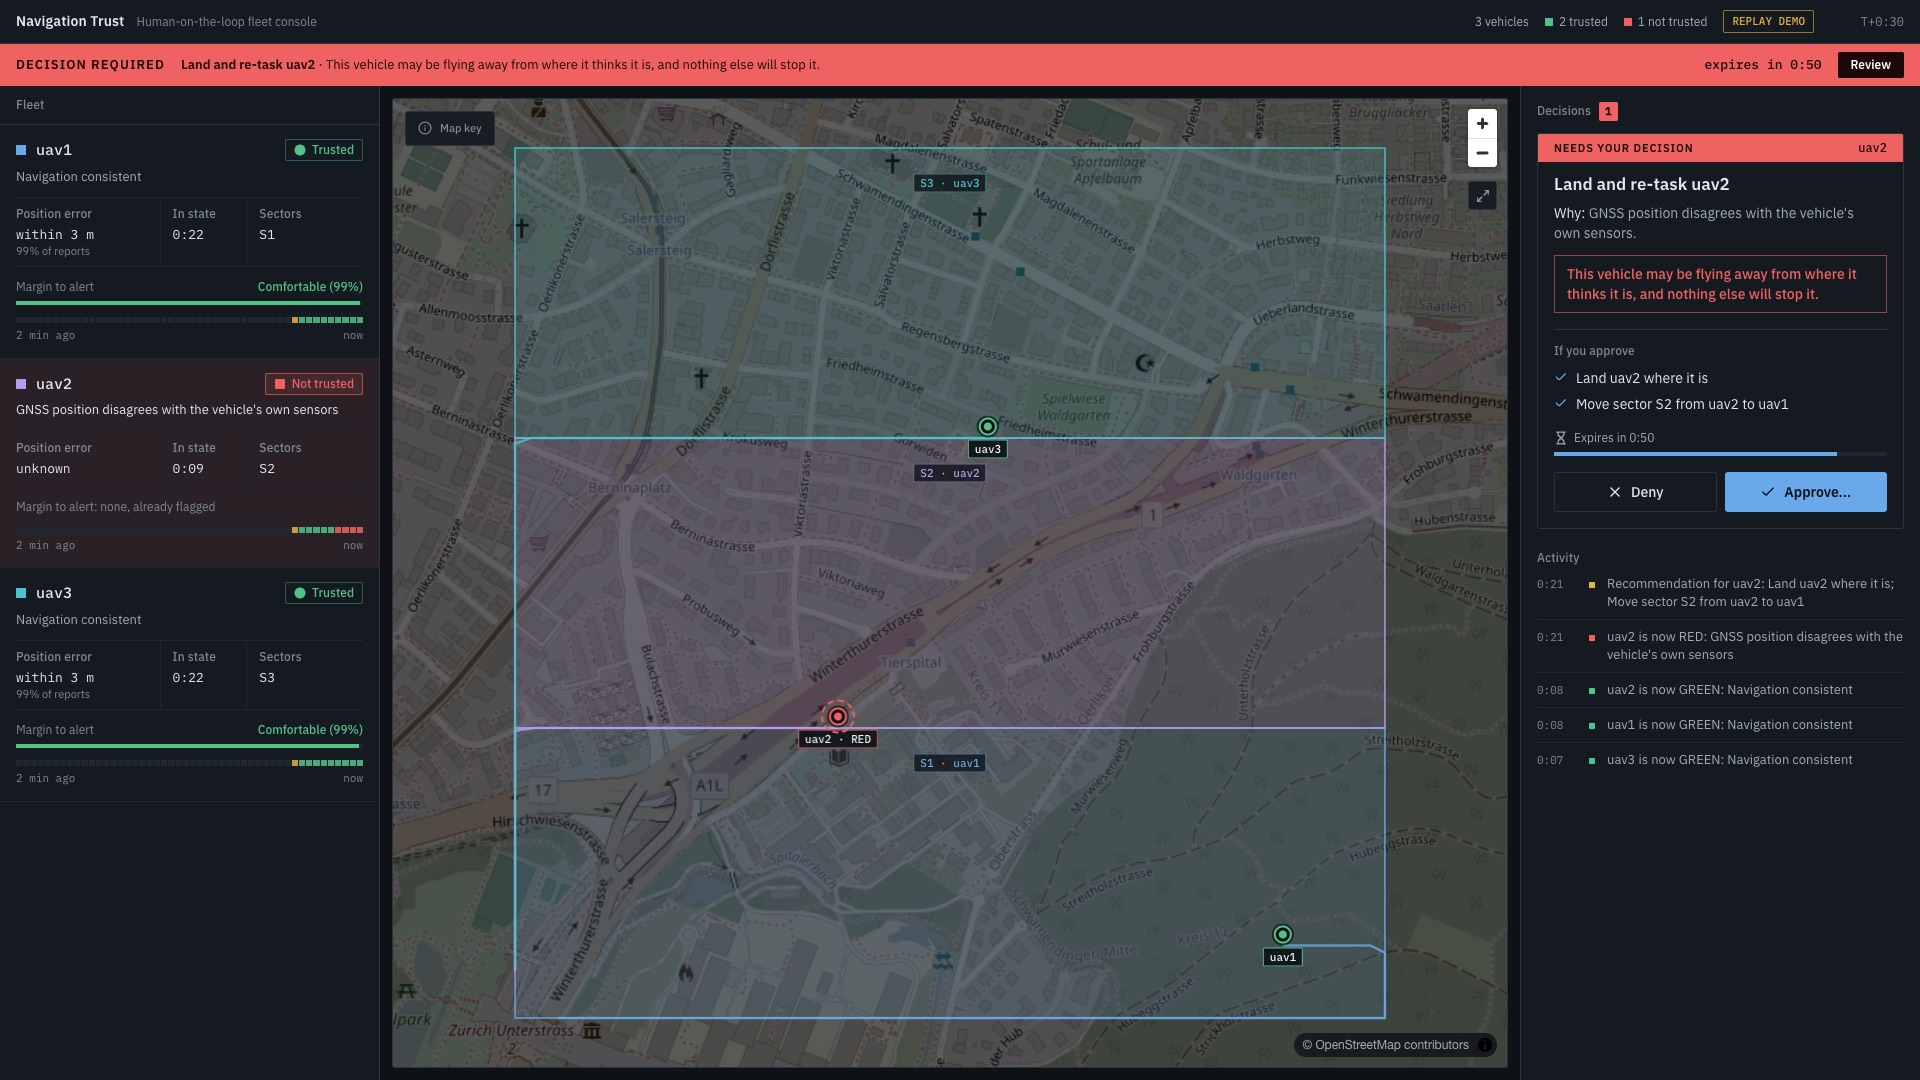
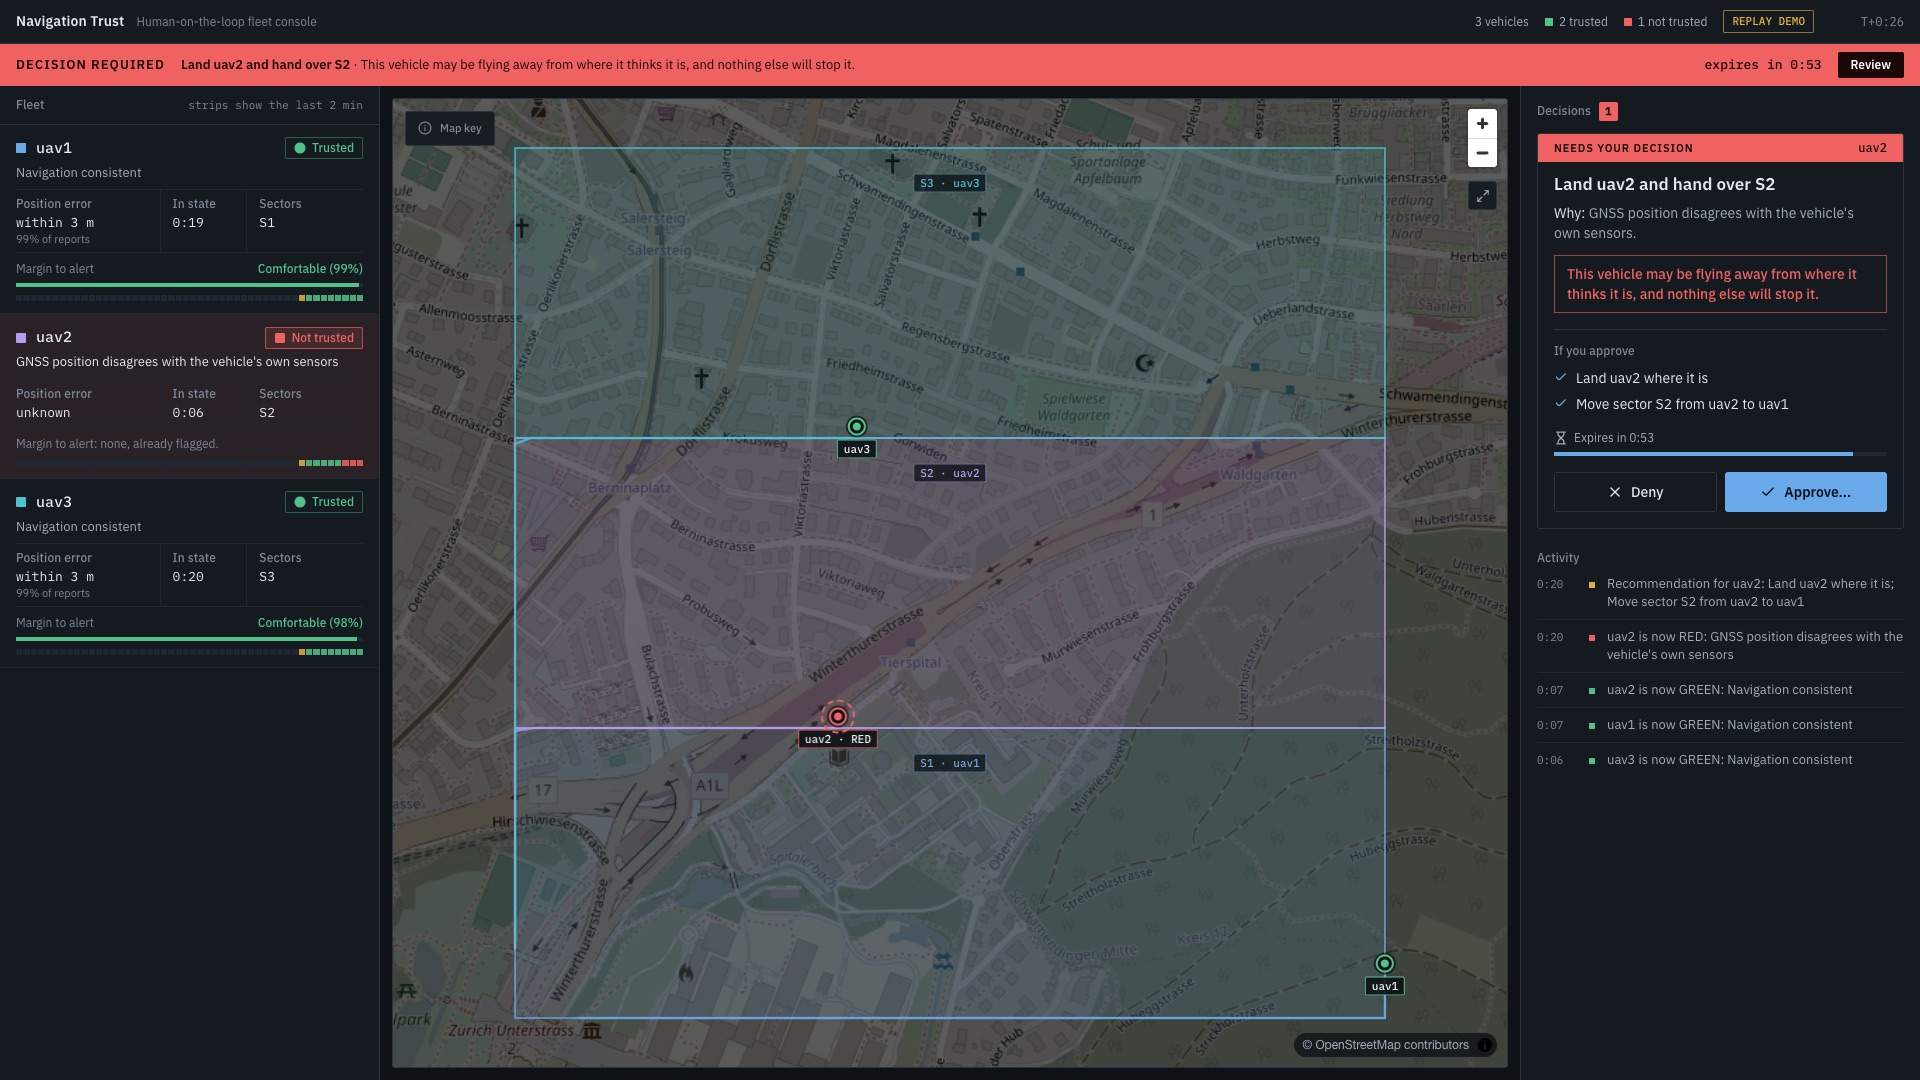
Console freeze before round 2: 189 px rows (5 vehicles fit at 1080p), AMBER says no action is expected, plain card titles ('Land uav2 and hand over S2')

diff --git a/console/src/components/VehicleRow.tsx b/console/src/components/VehicleRow.tsx
@@ -42,7 +42,7 @@ export function VehicleRow({
       type="button"
       onClick={onFocus}
       className={clsx(
-        "block w-full border-b border-line-soft px-4 py-3.5 text-left hover:bg-panel-2",
+        "block w-full border-b border-line-soft px-4 py-3 text-left hover:bg-panel-2",
         "focus-visible:outline-2 focus-visible:-outline-offset-2 focus-visible:outline-accent",
         trust.state === "RED" && "bg-bad/10 hover:bg-bad/14",
       )}
@@ -60,11 +60,11 @@ export function VehicleRow({
         <StateChip state={trust.state} />
       </div>
 
-      <p className={clsx("mt-1.5 text-[13px] leading-snug", trust.state === "GREEN" ? "text-muted" : "text-text")}>
+      <p className={clsx("mt-1 text-[13px] leading-snug", trust.state === "GREEN" ? "text-muted" : "text-text")}>
         {reasonText(trust.reason)}
       </p>
 
-      <dl className="mt-3 grid grid-cols-[1.25fr_0.75fr_1fr] divide-x divide-line-soft border-y border-line-soft text-xs">
+      <dl className="mt-2 grid grid-cols-[1.25fr_0.75fr_1fr] divide-x divide-line-soft border-y border-line-soft text-xs">
         <Metric
           label="Position error"
           value={formatBound(trust.horizontal_bound_m)}
@@ -80,11 +80,11 @@ export function VehicleRow({
         />
       </dl>
 
-      <div className="mt-3">
+      <div className="mt-2">
         <Headroom trust={trust} />
       </div>
 
-      <div className="mt-3">
+      <div className="mt-2">
         <TrustStrip history={history} now={now} />
       </div>
     </button>
@@ -105,9 +105,9 @@ function Metric({
   first?: boolean;
 }) {
   return (
-    <div className={clsx("py-2", first ? "pr-3" : "px-3")} title={title}>
+    <div className={clsx("py-1.5", first ? "pr-3" : "px-3")} title={title}>
       <dt className="label">{label}</dt>
-      <dd className="mt-1 truncate font-mono text-[13px] text-text">{value}</dd>
+      <dd className="mt-0.5 truncate font-mono text-[13px] text-text">{value}</dd>
       {note && <dd className="truncate text-[11px] text-faint">{note}</dd>}
     </div>
   );
@@ -122,7 +122,12 @@ const HEADROOM_STYLE = {
 /** How far a GREEN vehicle is from being flagged. Outside GREEN there is nothing left to measure. */
 function Headroom({ trust }: { trust: NavTrust }) {
   if (trust.state !== "GREEN") {
-    return <p className="text-xs text-faint">Margin to alert: none, already flagged</p>;
+    return (
+      <p className="text-xs text-faint">
+        Margin to alert: none, already flagged.
+        {trust.state === "AMBER" && " No action is recommended unless it turns RED."}
+      </p>
+    );
   }
   const level = headroomLevel(trust.headroom);
   const style = HEADROOM_STYLE[level];

diff --git a/console/src/language.ts b/console/src/language.ts
@@ -66,14 +66,16 @@ export function actionsOf(rec: Recommendation): string[] {
   return out;
 }
 
+/** Plain wording for the card title, for example "Land uav2 and hand over S2". The backend and the
+ * ICD call a sector move a re-task; an operator does not need that word. */
 export function titleOf(rec: Recommendation): string {
-  const parts: string[] = [];
-  if (rec.command === "HOLD") parts.push("Hold");
-  if (rec.command === "RTL") parts.push("Return");
-  if (rec.command === "LAND") parts.push("Land");
-  if (rec.sector_moves.length > 0) parts.push("re-task");
-  const text = parts.join(" and ");
-  return `${text.charAt(0).toUpperCase()}${text.slice(1)} ${rec.vehicle_id}`;
+  const v = rec.vehicle_id;
+  const command =
+    rec.command === "HOLD" ? `Hold ${v}` : rec.command === "RTL" ? `Return ${v} to launch` : rec.command === "LAND" ? `Land ${v}` : null;
+  const sectors = [...new Set(rec.sector_moves.map((m) => m.sector_id))].join(", ");
+  if (command && sectors) return `${command} and hand over ${sectors}`;
+  if (command) return command;
+  return `Hand over ${sectors} from ${v}`;
 }
 
 export const ERROR_TEXT: Record<number, string> = {

diff --git a/console/src/components/TrustStrip.tsx b/console/src/components/TrustStrip.tsx
@@ -6,6 +6,7 @@ const WINDOW_S = 120;
 
 /** The last two minutes of a vehicle's trust state as a row of small blocks. */
 export function TrustStrip({ history, now }: { history: HistoryPoint[]; now: number | null }) {
+  // the strip is always the last two minutes; its ends are labelled once in the fleet header
   const end = now ?? history[history.length - 1]?.server_s ?? 0;
   const start = end - WINDOW_S;
   const cells: (keyof typeof TONE | null)[] = Array.from({ length: BUCKETS }, () => null);
@@ -29,10 +30,6 @@ export function TrustStrip({ history, now }: { history: HistoryPoint[]; now: num
         {filled.map((c, i) => (
           <span key={i} className="h-full flex-1" style={{ background: c ? TONE[c].hex : "#1f2832", opacity: c ? 0.85 : 1 }} />
         ))}
-      </div>
-      <div className="mt-1 flex justify-between font-mono text-[11px] text-faint">
-        <span>2 min ago</span>
-        <span>now</span>
       </div>
     </div>
   );

diff --git a/console/src/store.test.ts b/console/src/store.test.ts
@@ -113,11 +113,12 @@ describe("language", () => {
 
   it("describes exactly what approving will do", () => {
     expect(actionsOf(rec)).toEqual(["Hold uav2 in place", "Move sector S2 from uav2 to uav3"]);
-    expect(titleOf(rec)).toBe("Hold and re-task uav2");
-    expect(titleOf({ ...rec, command: null })).toBe("Re-task uav2");
+    expect(titleOf(rec)).toBe("Hold uav2 and hand over S2");
+    expect(titleOf({ ...rec, command: null })).toBe("Hand over S2 from uav2");
     expect(actionsOf({ ...rec, command: "RTL", sector_moves: [] })).toEqual(["Send uav2 back to its launch point"]);
     expect(actionsOf({ ...rec, command: "LAND", sector_moves: [] })).toEqual(["Land uav2 where it is"]);
-    expect(titleOf({ ...rec, command: "LAND" })).toBe("Land and re-task uav2");
+    expect(titleOf({ ...rec, command: "LAND" })).toBe("Land uav2 and hand over S2");
+    expect(titleOf({ ...rec, sector_moves: [] })).toBe("Hold uav2");
   });
 });
 

diff --git a/console/src/App.tsx b/console/src/App.tsx
@@ -112,7 +112,10 @@ export function App() {
       <main className="grid min-h-0 flex-1 xl:grid-cols-[380px_minmax(0,1fr)_400px]">
         {/* fleet */}
         <section className="flex min-h-0 flex-col overflow-y-auto border-r border-line bg-panel" aria-label="Fleet">
-          <h2 className="label sticky top-0 z-10 border-b border-line bg-panel px-4 py-2.5">Fleet</h2>
+          <h2 className="label sticky top-0 z-10 flex items-baseline justify-between border-b border-line bg-panel px-4 py-2.5">
+            Fleet
+            <span className="font-mono text-[11px] font-normal text-faint">strips show the last 2 min</span>
+          </h2>
           {vehicleIds.length === 0 && (
             <div className="px-4 py-5 text-sm text-muted">Waiting for vehicles to report their navigation trust...</div>
           )}

diff --git a/console/src/components/components.test.tsx b/console/src/components/components.test.tsx
@@ -141,3 +141,14 @@ describe("DecisionBanner (a waiting decision must not be missable)", () => {
     expect(onReview).toHaveBeenCalledTimes(1);
   });
 });
+
+describe("VehicleRow AMBER", () => {
+  it("says that no action is expected unless it turns RED", () => {
+    const amber = {
+      vehicle_id: "uav1", stamp_s: 1, state: "AMBER" as const, reason: "GNSS_LOSS" as const,
+      horizontal_bound_m: null, confidence: 0, headroom: 0,
+    };
+    render(<VehicleRow vehicleId="uav1" trust={amber} since={0} now={5} sectors={[]} doneSectors={[]} history={[]} calibration={null} onFocus={vi.fn()} />);
+    expect(screen.getByText(/No action is recommended unless it turns RED/)).toBeTruthy();
+  });
+});

diff --git a/docs/validation/c2-03-review.md b/docs/validation/c2-03-review.md
@@ -11,9 +11,9 @@ the recommender can make (ADR 0002 and 0003).
 
 | Trust state and reason | Recommendation | Card title | Reason shown | Extra text |
 |---|---|---|---|---|
-| RED, GNSS_LOSS | re-task only | "Re-task uav2" | GNSS signal lost or degraded | "No command is sent to uav2: its own failsafe is acting." |
-| RED, STALE | re-task only | "Re-task uav2" | No recent navigation data | "No command is sent to uav2: it has stopped reporting." |
-| RED, INCONSISTENT_INNOVATION | LAND and re-task | "Land and re-task uav2" | GNSS position disagrees with the vehicle's own sensors | "This vehicle may be flying away from where it thinks it is, and nothing else will stop it." |
+| RED, GNSS_LOSS | hand over only | "Hand over S2 from uav2" | GNSS signal lost or degraded | "No command is sent to uav2: its own failsafe is acting." |
+| RED, STALE | hand over only | "Hand over S2 from uav2" | No recent navigation data | "No command is sent to uav2: it has stopped reporting." |
+| RED, INCONSISTENT_INNOVATION | LAND and hand over | "Land uav2 and hand over S2" | GNSS position disagrees with the vehicle's own sensors | "This vehicle may be flying away from where it thinks it is, and nothing else will stop it." |
 | AMBER, any | none by design (ADR 0002) | none | shown in the fleet row | none |
 
 ## Checklist
@@ -26,17 +26,17 @@ the recommender can make (ADR 0002 and 0003).
 | 4 | Does it say what happens to the vehicle itself when no command is sent? | Not before this review. Added: the note in the table above |
 | 5 | Is the time left to decide shown, and is an expired card unusable? | Yes. Tested |
 | 6 | Is a dangerous wait called out? | Yes, for the frozen position (LAND). Not for loss or stale, where a failsafe is acting or data is gone |
-| 7 | Can the operator tell why nothing is recommended for AMBER? | Partly. The row shows the state and reason, and the margin to alert; nothing says that no action is expected |
-| 8 | Is every reason label one the system can actually produce? | No. `BIAS_DRIFT` has a label but no detector or recommendation uses it |
-| 9 | Is the vocabulary understood by someone who has never seen the console? | Not shown. "Re-task" is jargon; no participant was asked about it |
+| 7 | Can the operator tell why nothing is recommended for AMBER? | Yes, since the console freeze: the row says "No action is recommended unless it turns RED". Tested |
+| 8 | Is every reason label one the system can actually produce? | No. `BIAS_DRIFT` has a label but no detector or recommendation uses it. It is reserved in the ICD, so the label stays |
+| 9 | Is the vocabulary understood by someone who has never seen the console? | Not shown. The jargon "re-task" was replaced by "hand over" in card titles; no participant has been asked about either |
 
 ## Findings
 
 1. Fixed: a re-task-only card left the operator to guess what happens to the vehicle (4).
-2. Open: AMBER gives no sign that no action is expected (7). Not changed, to keep the console as
-   the round 2 sessions will see it.
-3. Open: `BIAS_DRIFT` is a dead label (8).
-4. Open: "re-task" as a title word (9). Round 2 should ask what participants take it to mean.
+2. Fixed: AMBER now says that no action is expected unless it turns RED (7).
+3. Kept: `BIAS_DRIFT` is reserved in the ICD; nothing produces it (8).
+4. Changed, not tested: card titles say "hand over" instead of "re-task" (9). Round 2 should ask what
+   participants take the card to mean.
 
 ## Why the status stays "partial"
 

diff --git a/docs/product/requirements.md b/docs/product/requirements.md
@@ -17,7 +17,7 @@ PX4's own GPS failure model). Nothing in it says anything about real receivers o
 | C2-01 | No vehicle command shall execute without a recorded operator approval, except PX4's own failsafes | unit tests on the gate and the audit log | met | The gate is the only path to a command, an AST test enforces that, and every outcome is audited |
 | C2-02 | On RED the system shall propose re-assignment of the vehicle's remaining sectors within 2 s | integration test | met | Measured in 6 live three-vehicle runs: 5 to 6 ms from the backend receiving the RED report to the recommendation (`eval/fleet/results.md`). The engine's report interval (2 Hz, up to 0.5 s by design) and delivery to the console are not included. For a frozen position the proposal is LAND plus re-assignment |
 | C2-03 | Every alert shall show a reason code an operator can act on | UI test, review checklist | partial | Review done (`docs/validation/c2-03-review.md`) and tested for every recommendation the recommender can make; one gap fixed. Whether an operator acts on it is not shown: round 1 participants did not act unaided; round 2 pending |
-| UX-01 | The operator can see all vehicles' trust states without scrolling at 1080p | manual check, screenshot | partial | Measured at 1920 x 1080 with 3 vehicles after the redesign: the lowest row ends at 789 of 1080 px and each row is 230 px, so 4 fit and nothing scrolls. The spec says an operator controls 3 to 5 vehicles; a fifth row would need scrolling |
+| UX-01 | The operator can see all vehicles' trust states without scrolling at 1080p | manual check, screenshot | met | Measured at 1920 x 1080 with 5 vehicles and the decision band showing: each row is 189 px and the fleet panel does not scroll. The spec says 3 to 5 vehicles |
 
 ## Success metrics (spec section 1.5)
 

diff --git a/docs/usability/facilitator-script.md b/docs/usability/facilitator-script.md
@@ -64,13 +64,13 @@ participants and then compare their times. Note that the demo compresses time fi
 `outage` the drone is AMBER for only about a second before it turns RED, so a participant may never
 see AMBER.
 
-In `both`, two cards are open at once. The list puts the most urgent first ("Land and re-task
-uav2", with the red warning), then the routine re-task, whatever order they arrived in. Watch which
+In `both`, two cards are open at once. The list puts the most urgent first ("Land uav2 and hand
+over S2", with the red warning), then the routine hand-over, whatever order they arrived in. Watch which
 one the participant takes first and write it down.
 
 What will happen, so you are not surprised: once the feed starts, the three drones appear. About 15
 to 20 seconds later drone `uav2` turns "Not trusted", a red "Decision required" band appears across the top, and a card
-appears on the right: "Land and re-task uav2", with a 60 second countdown. If nobody answers, it expires and the same
+appears on the right: "Land uav2 and hand over S2", with a 60 second countdown. (In round 1 the title read "Land and re-task uav2".) If nobody answers, it expires and the same
 recommendation appears again. Approving it moves sector S2 from `uav2` to `uav1` on the map.
 
 ## Phase 0: welcome and consent (3 minutes)
@@ -132,7 +132,7 @@ themselves. If they say they have noticed something but ask what to do:
 
 > What would you do if I were not here?
 
-If they ask what a word means ("position error", "margin", "re-task"): "What do you think it means?" Record the word.
+If they ask what a word means ("position error", "margin", "hand over"): "What do you think it means?" Record the word.
 
 Record, with `T+`:
 - when they first read the "If you approve" list aloud or point at it;

diff --git a/docs/usability/findings-2026-10.md b/docs/usability/findings-2026-10.md
@@ -78,8 +78,9 @@ visible without scrolling (screenshots taken during the review, not in the parti
 None of these has been re-tested with people.
 
 ## What did not change, and why
-Wording such as "Land and re-task uav2", the 60 s expiry and the card's position are unchanged: the
-sessions gave no evidence about them either way.
+The 60 s expiry and the card's position are unchanged: the sessions gave no evidence about them
+either way. The card title "Land and re-task uav2" was later changed to "Land uav2 and hand over S2"
+as plain wording, without evidence that it matters.
 
 ## Round 2 (planned)
 Two to three new participants with the same background, protocol v2 and the redesigned console.
